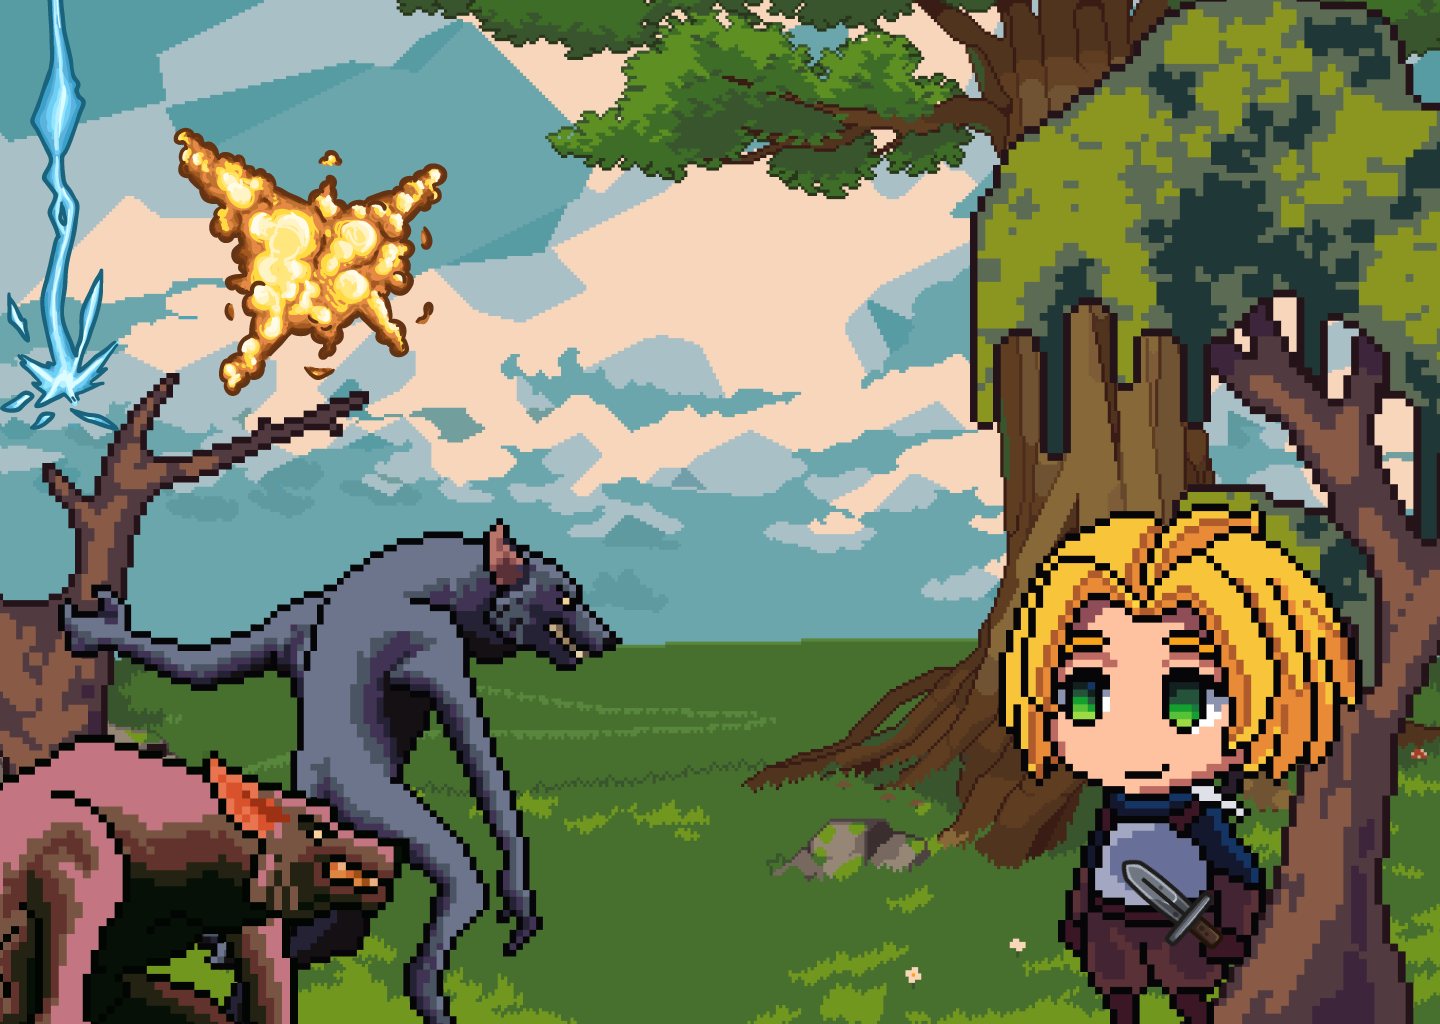
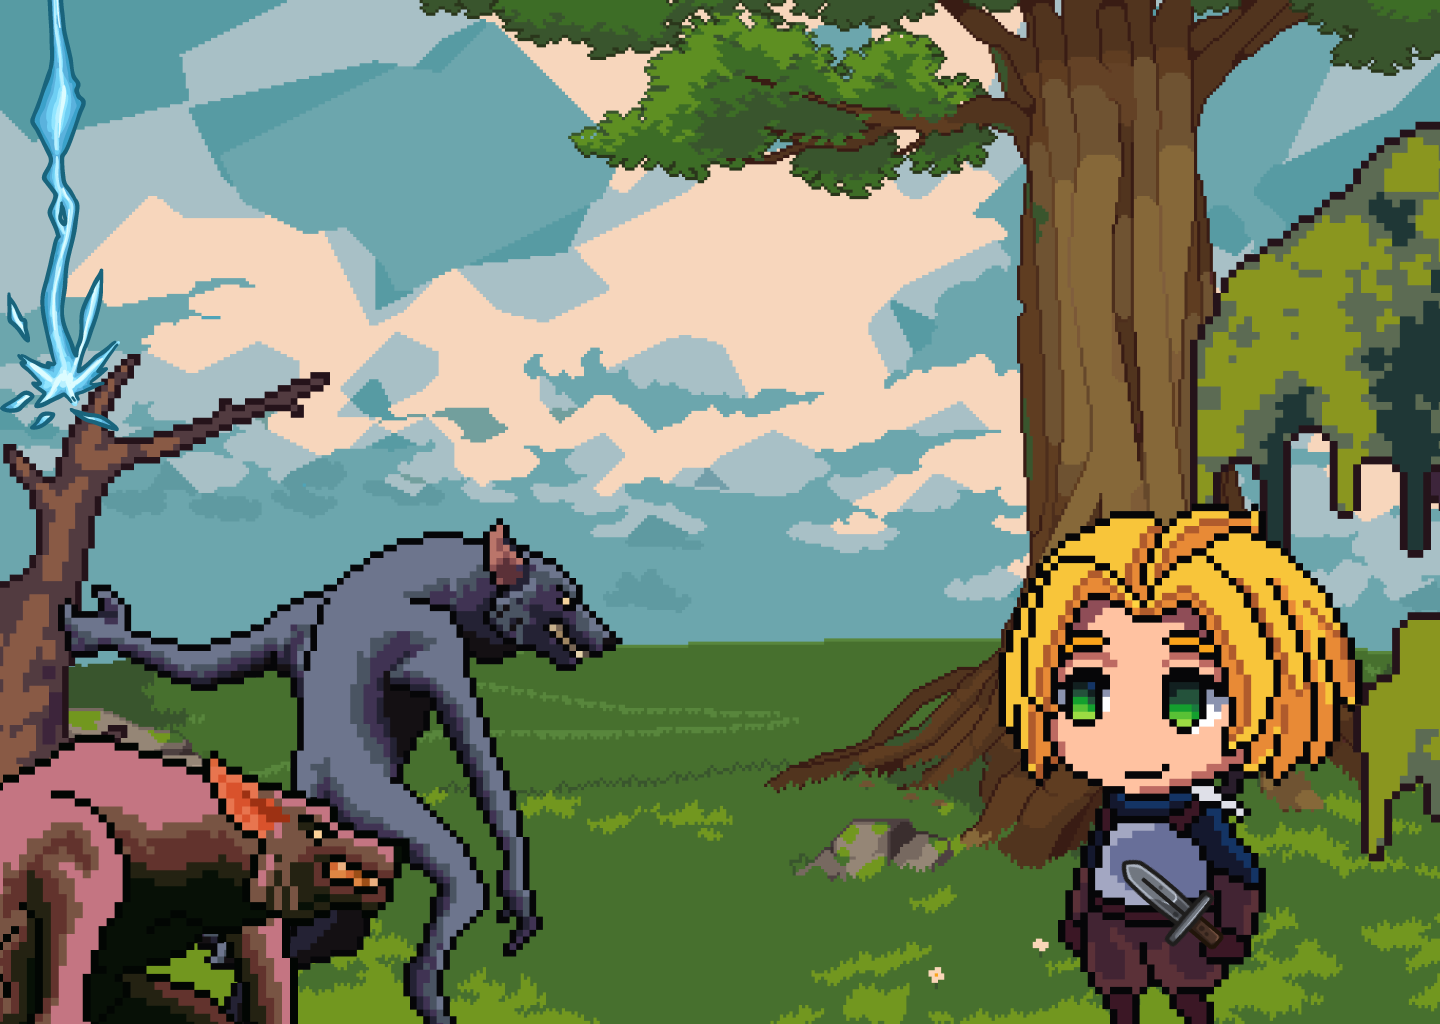
Resize bg image for #front-page

diff --git a/index.html b/index.html
@@ -12,6 +12,7 @@
     <script src="./scripts/gameplay.js" type="module" defer></script>
     <script src="./scripts/startMenu.js" type="module" defer></script>
     <script src="./scripts/scoreboard.js" type="module" defer></script>
+    <script src="./scripts/modal.js" type="module" defer></script>
     <link rel="stylesheet" href="./globals.css" />
     <link rel="icon" type="image/x-icon" href="./assets/images/favicon.png" />
     <title>Gustaf, the wolf killer</title>
@@ -21,7 +22,12 @@
       <header class="header">
         <h1 class="game-title">Gustaf, the werewolf slayer</h1>
       </header>
-      <input type="text" id="player-name" placeholder="Enter name to play" required />
+      <input
+        type="text"
+        id="player-name"
+        placeholder="Enter name to play"
+        required
+      />
       <p class="error-input-message"></p>
       <button id="play-button">Play</button>
       <button id="scoreboard-button">Scoreboard</button>
@@ -31,6 +37,12 @@
       <button class="clear-button">Clear</button>
       <h2>Scoreboard</h2>
       <div id="scoreboard-data"></div>
+    </div>
+    <div class="modal-overlay" id="modalOverlay">
+      <div class="modal">
+        <p>This is a simple modal pop-up.</p>
+        <button class="modal-close" id="closeModal">Close</button>
+      </div>
     </div>
     <canvas id="game-canvas"></canvas>
   </body>

diff --git a/globals.css b/globals.css
@@ -15,24 +15,22 @@ body {
 
 .game-title {
   font-family: "Chelsea Market", serif;
-  font-size: 5rem;
+  font-size: 3rem;
   font-weight: 800;
   color: #000000;
   text-transform: uppercase;
-  background-color: rgba(204, 239, 246, 0.4);
 }
 
 #front-page {
   width: 100%;
-  height: 100%;
+  height: 90%;
   display: block;
   text-align: center;
   margin-top: 50px;
   background-image: url("./assets/images/backgrounds/main-menu-bg.jpg");
   background-repeat: no-repeat;
-  background-size: auto;
+  background-size: 80%;
   background-position: center;
-  background-attachment: fixed;
   display: flex;
   justify-content: center;
   align-items: center;
@@ -82,6 +80,7 @@ button:hover {
   color: white;
   display: block;
   font-size: 1.4rem;
+  font-family: "Jersey 20", serif;
 }
 
 #scoreboard {
@@ -96,4 +95,20 @@ button:hover {
 #game-canvas {
   z-index: 1;
   display: none;
+}
+
+.modal {
+  color: white;
+}
+
+.modal-overlay {
+  position: fixed;
+  top: 0;
+  left: 0;
+  width: 100%;
+  height: 100%;
+  background-color: rgba(0, 0, 0, 0.5);
+  display: none; /* Hidden by default */
+  justify-content: center;
+  align-items: center;
 }

diff --git a/scripts/modal.js b/scripts/modal.js
@@ -1,0 +1,23 @@
+
+const modalOverlay = document.querySelector('.modal-overlay');
+const closeModalBtn = document.querySelector(".modal-close")
+
+export function showModal() {
+  modalOverlay.style.display = 'block';
+}
+
+// Function to hide the modal
+function hideModal() {
+  modalOverlay.style.display = 'none';
+  window.location.href = '/index.html';
+}
+
+// Attach close button functionality
+closeModalBtn.addEventListener('click', hideModal);
+
+// Close modal when clicking outside the modal content
+modalOverlay.addEventListener('click', (event) => {
+  if (event.target === modalOverlay) {
+    hideModal();
+  }
+});

diff --git a/scripts/gameplay.js b/scripts/gameplay.js
@@ -4,6 +4,8 @@ import { objects } from "./objects.js";
 import { drawScoreboard } from "./scoreboard.js";
 import { sprites } from "./sprites.js";
 import { collisionTop, createBlock, isOnTop } from "./utils.js";
+import { showModal } from "./modal.js";
+const gameCanvas = document.getElementById("game-canvas");
 
 const canvas = document.querySelector("canvas");
 const ctx = canvas.getContext("2d");
@@ -1755,7 +1757,8 @@ const animate = () => {
 
   // LOSE condition: death pits
   if (player.position.y > canvas.width) {
-    drawScoreboard();
+    showModal();
+    gameCanvas.style.display = "none";
     return;
   }
 };
